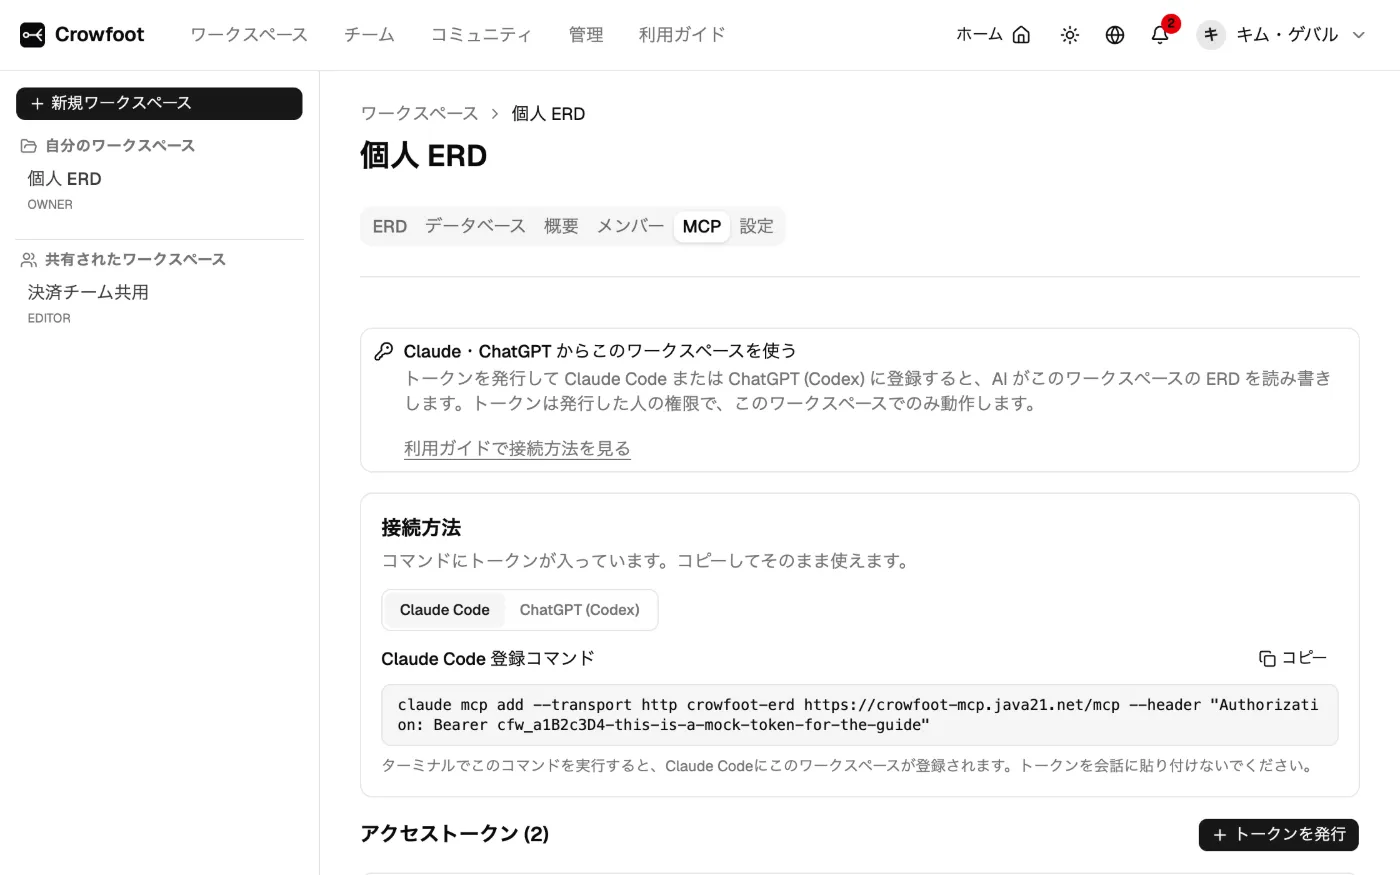
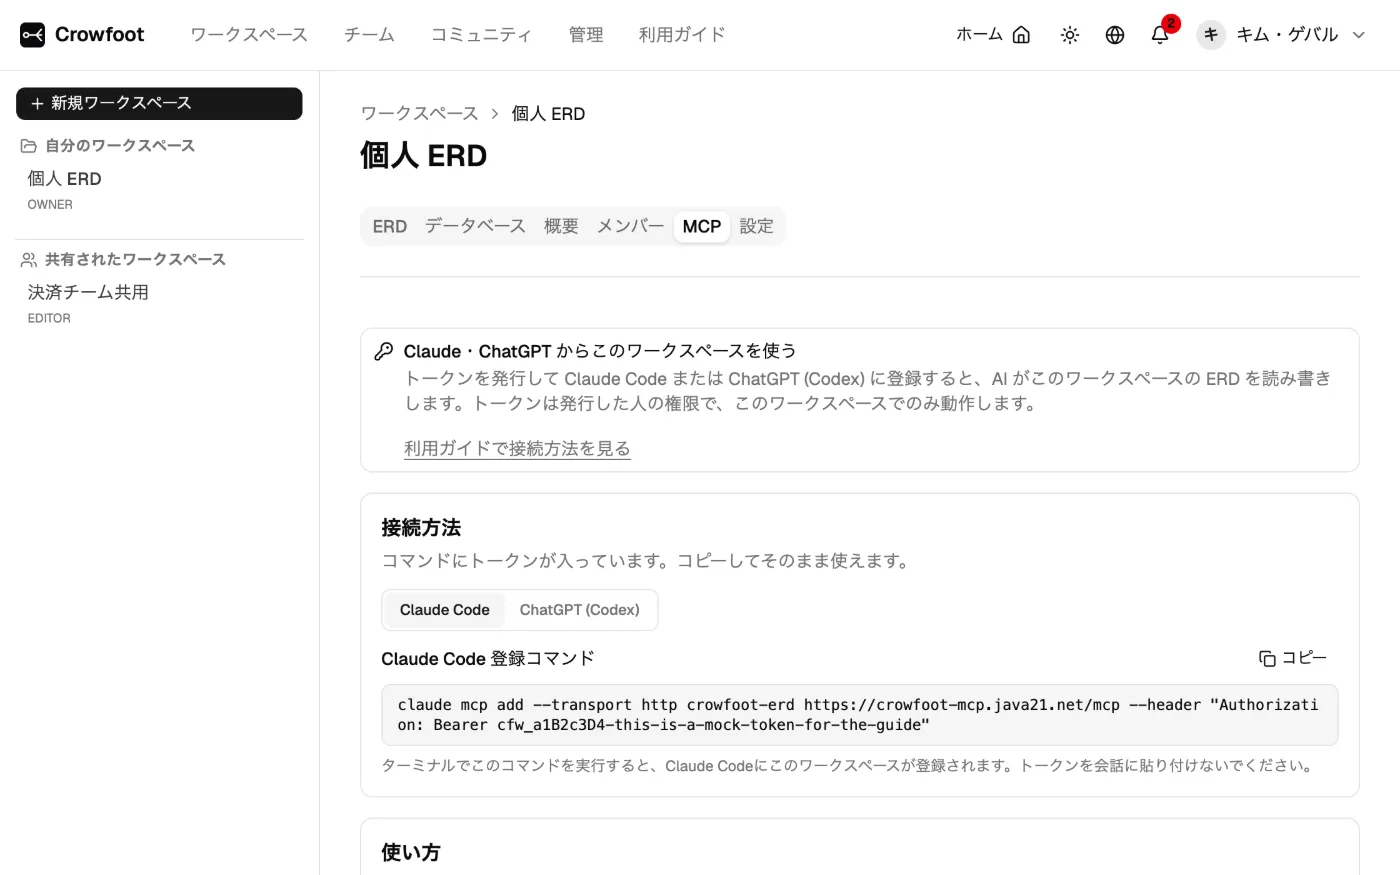
feat(mcp): MCP 탭에 사용 방법 — 실행·연결 확인 단계와 복사할 수 있는 예시 요청
연결한 뒤에 무엇을 하는지 보여 준다. 예시 요청 6개를 복사해 그대로 붙여 넣는다.
사용 가이드 20.2절에 같은 내용과 그림을 네 언어로 더했다.

docs: 04-front/02-workspace.md §9

Changed region(s): [[0.86, 0.9257, 0.9829, 0.9874], [0.2457, 0.9257, 0.3993, 0.9874]]

diff --git a/src/features/access-tokens/components/mcp-tab.tsx b/src/features/access-tokens/components/mcp-tab.tsx
@@ -43,6 +43,10 @@ import { formatDate, formatDateTime } from '@/lib/format'
 import { errorMessage } from '@/lib/result-code'
 import { cn } from 'cn'
 
+/** 사용 방법의 단계와 예시 요청 — 문구는 번역 파일에 있다 */
+const USAGE_STEPS = ['run', 'check', 'ask', 'open'] as const
+const USAGE_EXAMPLES = ['list', 'create', 'requirement', 'modify', 'ddl', 'deploy'] as const
+
 interface McpTabProps {
   workspaceId: string
   workspaceName: string
@@ -120,6 +124,29 @@ export function McpTab({ workspaceId, workspaceName, myRole }: McpTabProps) {
           </div>
         ) : null}
         <ConnectCommands serverName={serverName} token={picked?.token ?? null} />
+      </section>
+
+      {/* 사용 방법 — 연결한 뒤에 무엇을 하는지. 예시 요청은 복사해서 그대로 붙여 넣는다 */}
+      <section className="rounded-lg border p-4" data-testid="mcp-usage">
+        <h2 className="text-base font-semibold">{t('workspace.mcp.usage.title')}</h2>
+        <ol className="mt-2 grid list-decimal gap-1 pl-5 text-sm text-muted-foreground">
+          {USAGE_STEPS.map((step) => (
+            <li key={step}>{t(`workspace.mcp.usage.steps.${step}`)}</li>
+          ))}
+        </ol>
+        <p className="mt-4 mb-2 text-sm font-medium">{t('workspace.mcp.usage.examplesTitle')}</p>
+        <ul className="grid gap-1.5">
+          {USAGE_EXAMPLES.map((example) => {
+            const text = t(`workspace.mcp.usage.examples.${example}`)
+            return (
+              <li key={example} className="flex items-center justify-between gap-2 rounded-md border bg-muted/50 px-3 py-1.5 text-sm" data-testid="mcp-usage-example">
+                <span className="min-w-0">{text}</span>
+                <CopyIconButton value={text} label={t('workspace.mcp.copy')} testId="mcp-usage-copy" />
+              </li>
+            )
+          })}
+        </ul>
+        <p className="mt-3 text-xs text-muted-foreground">{t('workspace.mcp.usage.note')}</p>
       </section>
 
       <div className="flex flex-wrap items-center justify-between gap-3">
@@ -359,7 +386,7 @@ function IssuedTokenDialog({
 }
 
 /** 값 하나를 복사하는 아이콘 버튼 — 토큰 목록의 행에서 쓴다 */
-function CopyIconButton({ value, label }: { value: string; label: string }) {
+function CopyIconButton({ value, label, testId = 'mcp-token-copy' }: { value: string; label: string; testId?: string }) {
   const { t } = useTranslation()
   const [copied, setCopied] = useState(false)
   return (
@@ -370,7 +397,7 @@ function CopyIconButton({ value, label }: { value: string; label: string }) {
       className="size-6"
       aria-label={label}
       title={label}
-      data-testid="mcp-token-copy"
+      data-testid={testId}
       onClick={() => {
         navigator.clipboard.writeText(value).then(
           () => {

diff --git a/src/features/access-tokens/components/__tests__/mcp-tab.test.tsx b/src/features/access-tokens/components/__tests__/mcp-tab.test.tsx
@@ -81,6 +81,17 @@ describe('MCP 탭', () => {
     expect(link).toHaveAttribute('target', '_blank')
   })
 
+  it('사용 방법 — 단계와 예시 요청을 보여 주고, 예시는 복사한다', async () => {
+    const user = userEvent.setup()
+    renderTab()
+    const usage = await screen.findByTestId('mcp-usage')
+    expect(within(usage).getAllByRole('listitem').length).toBeGreaterThanOrEqual(10)
+    const examples = within(usage).getAllByTestId('mcp-usage-example')
+    expect(examples).toHaveLength(6)
+    await user.click(within(examples[1]).getByTestId('mcp-usage-copy'))
+    expect(await navigator.clipboard.readText()).toBe('도서 대여 서비스의 요구사항을 정리해서 MySQL용 새 ERD 문서로 만들어 줘')
+  })
+
   it('읽기 역할이면 토큰이 읽기만 할 수 있다고 알린다', async () => {
     renderTab({ myRole: 'VIEWER' })
     expect(await screen.findByTestId('mcp-readonly-notice')).toHaveTextContent('읽기만')

diff --git a/scripts/capture-guide.test.ts b/scripts/capture-guide.test.ts
@@ -469,6 +469,17 @@ const APP_SCENES: Scene[] = [
       await s.shot('mcp-issued', { locator: s.page.getByTestId('mcp-issued-dialog') })
     },
   },
+  {
+    name: 'mcp-usage',
+    run: async (s) => {
+      await goto(s, `/workspaces/${WS}?tab=mcp`)
+      const usage = s.page.getByTestId('mcp-usage')
+      await usage.waitFor()
+      await usage.scrollIntoViewIfNeeded()
+      await s.page.waitForTimeout(300)
+      await s.shot('mcp-usage', { locator: usage })
+    },
+  },
   { name: 'workspace-overview', run: async (s) => { await goto(s, `/workspaces/${WS}?tab=overview`); await s.shot('workspace-overview') } },
   { name: 'workspace-settings', run: async (s) => { await goto(s, `/workspaces/${WS}?tab=settings`); await s.shot('workspace-settings') } },
   { name: 'team-detail', run: async (s) => { await goto(s, '/teams/201'); await s.shot('team-detail') } },

diff --git a/src/content/guide/ja.md b/src/content/guide/ja.md
@@ -920,6 +920,14 @@ Claude CodeのようなMCPクライアントをワークスペースに接続す
 
 ### 20.2 Claudeに任せられること
 
+![使い方と依頼の例](/guide-assets/ja/mcp-usage.webp)
+
+登録したフォルダで Claude Code または Codex を起動し、やりたいことを言葉で依頼します。タブの **{{workspace.mcp.usage.title}}** に依頼の例があり、コピーできます。
+
+* チャットに `/mcp` と入力すると、接続されたか確認できます。
+* 登録はコマンドを実行したフォルダにだけ適用されます。すべてのフォルダで使うには、登録コマンドに `--scope user` を付けます。
+* 依頼の例:「図書レンタルサービスの要件を整理して、MySQL 用の新しい ERD ドキュメントを作って」「このドキュメントを検証して DDL を見せて」。
+
 | できること | 説明 |
 |---|---|
 | ワークスペースを調べる | ドキュメント一覧、用語辞書、ドメインタイプ、設計ルールを読みます |

diff --git a/src/content/guide/ko.md b/src/content/guide/ko.md
@@ -920,6 +920,14 @@ Claude Code 같은 MCP 클라이언트를 워크스페이스에 연결하면 대
 
 ### 20.2 Claude에게 맡길 수 있는 일
 
+![사용 방법과 예시 요청](/guide-assets/ko/mcp-usage.webp)
+
+등록한 폴더에서 Claude Code나 Codex를 켜고, 하고 싶은 일을 말로 요청합니다. 탭의 **{{workspace.mcp.usage.title}}** 에 예시 요청이 있고 복사할 수 있습니다.
+
+* 대화 창에 `/mcp` 를 입력하면 연결됐는지 볼 수 있습니다.
+* 등록은 명령을 실행한 폴더에서만 적용됩니다. 모든 폴더에서 쓰려면 등록 명령에 `--scope user` 를 붙입니다.
+* 요청 예: "도서 대여 서비스의 요구사항을 정리해서 MySQL용 새 ERD 문서로 만들어 줘", "이 문서를 검증하고 DDL을 보여 줘".
+
 | 하는 일 | 설명 |
 |---|---|
 | 워크스페이스 살펴보기 | 문서 목록, 용어 사전, 도메인 타입, 설계 규칙을 읽습니다 |

diff --git a/src/content/guide/en.md b/src/content/guide/en.md
@@ -920,6 +920,14 @@ Issue a token on the workspace's **{{workspace.detail.tabs.mcp}}** tab. Every me
 
 ### 20.2 What you can ask Claude to do
 
+![How to use and example requests](/guide-assets/en/mcp-usage.webp)
+
+Start Claude Code or Codex in the folder where you registered, and ask for what you want in plain words. **{{workspace.mcp.usage.title}}** on the tab lists example requests you can copy.
+
+* Type `/mcp` in the chat to see whether it is connected.
+* The registration applies only to the folder where you ran the command. To use it from every folder, add `--scope user` to the registration command.
+* Example requests: "Collect the requirements for a book rental service and create a new ERD document for MySQL", "Validate this document and show me the DDL".
+
 | Task | Description |
 |---|---|
 | Look around the workspace | Reads the document list, the term dictionary, domain types, and design rules |

diff --git a/src/content/guide/zh.md b/src/content/guide/zh.md
@@ -920,6 +920,14 @@ Crowfoot 的界面大致分为三种。
 
 ### 20.2 可以交给 Claude 的事
 
+![使用方法和提问示例](/guide-assets/zh/mcp-usage.webp)
+
+在注册的文件夹中启动 Claude Code 或 Codex，用自然语言提出想做的事。标签页的 **{{workspace.mcp.usage.title}}** 中有可以复制的提问示例。
+
+* 在对话中输入 `/mcp` 可以查看是否已连接。
+* 注册只对运行命令的文件夹生效。要在所有文件夹中使用，请在注册命令中加上 `--scope user`。
+* 提问示例：“整理图书借阅服务的需求，并创建一个 MySQL 的新 ERD 文档”、“校验这个文档并显示 DDL”。
+
 | 事项 | 说明 |
 |---|---|
 | 查看工作区 | 读取文档列表、术语词典、域类型和设计规则 |
